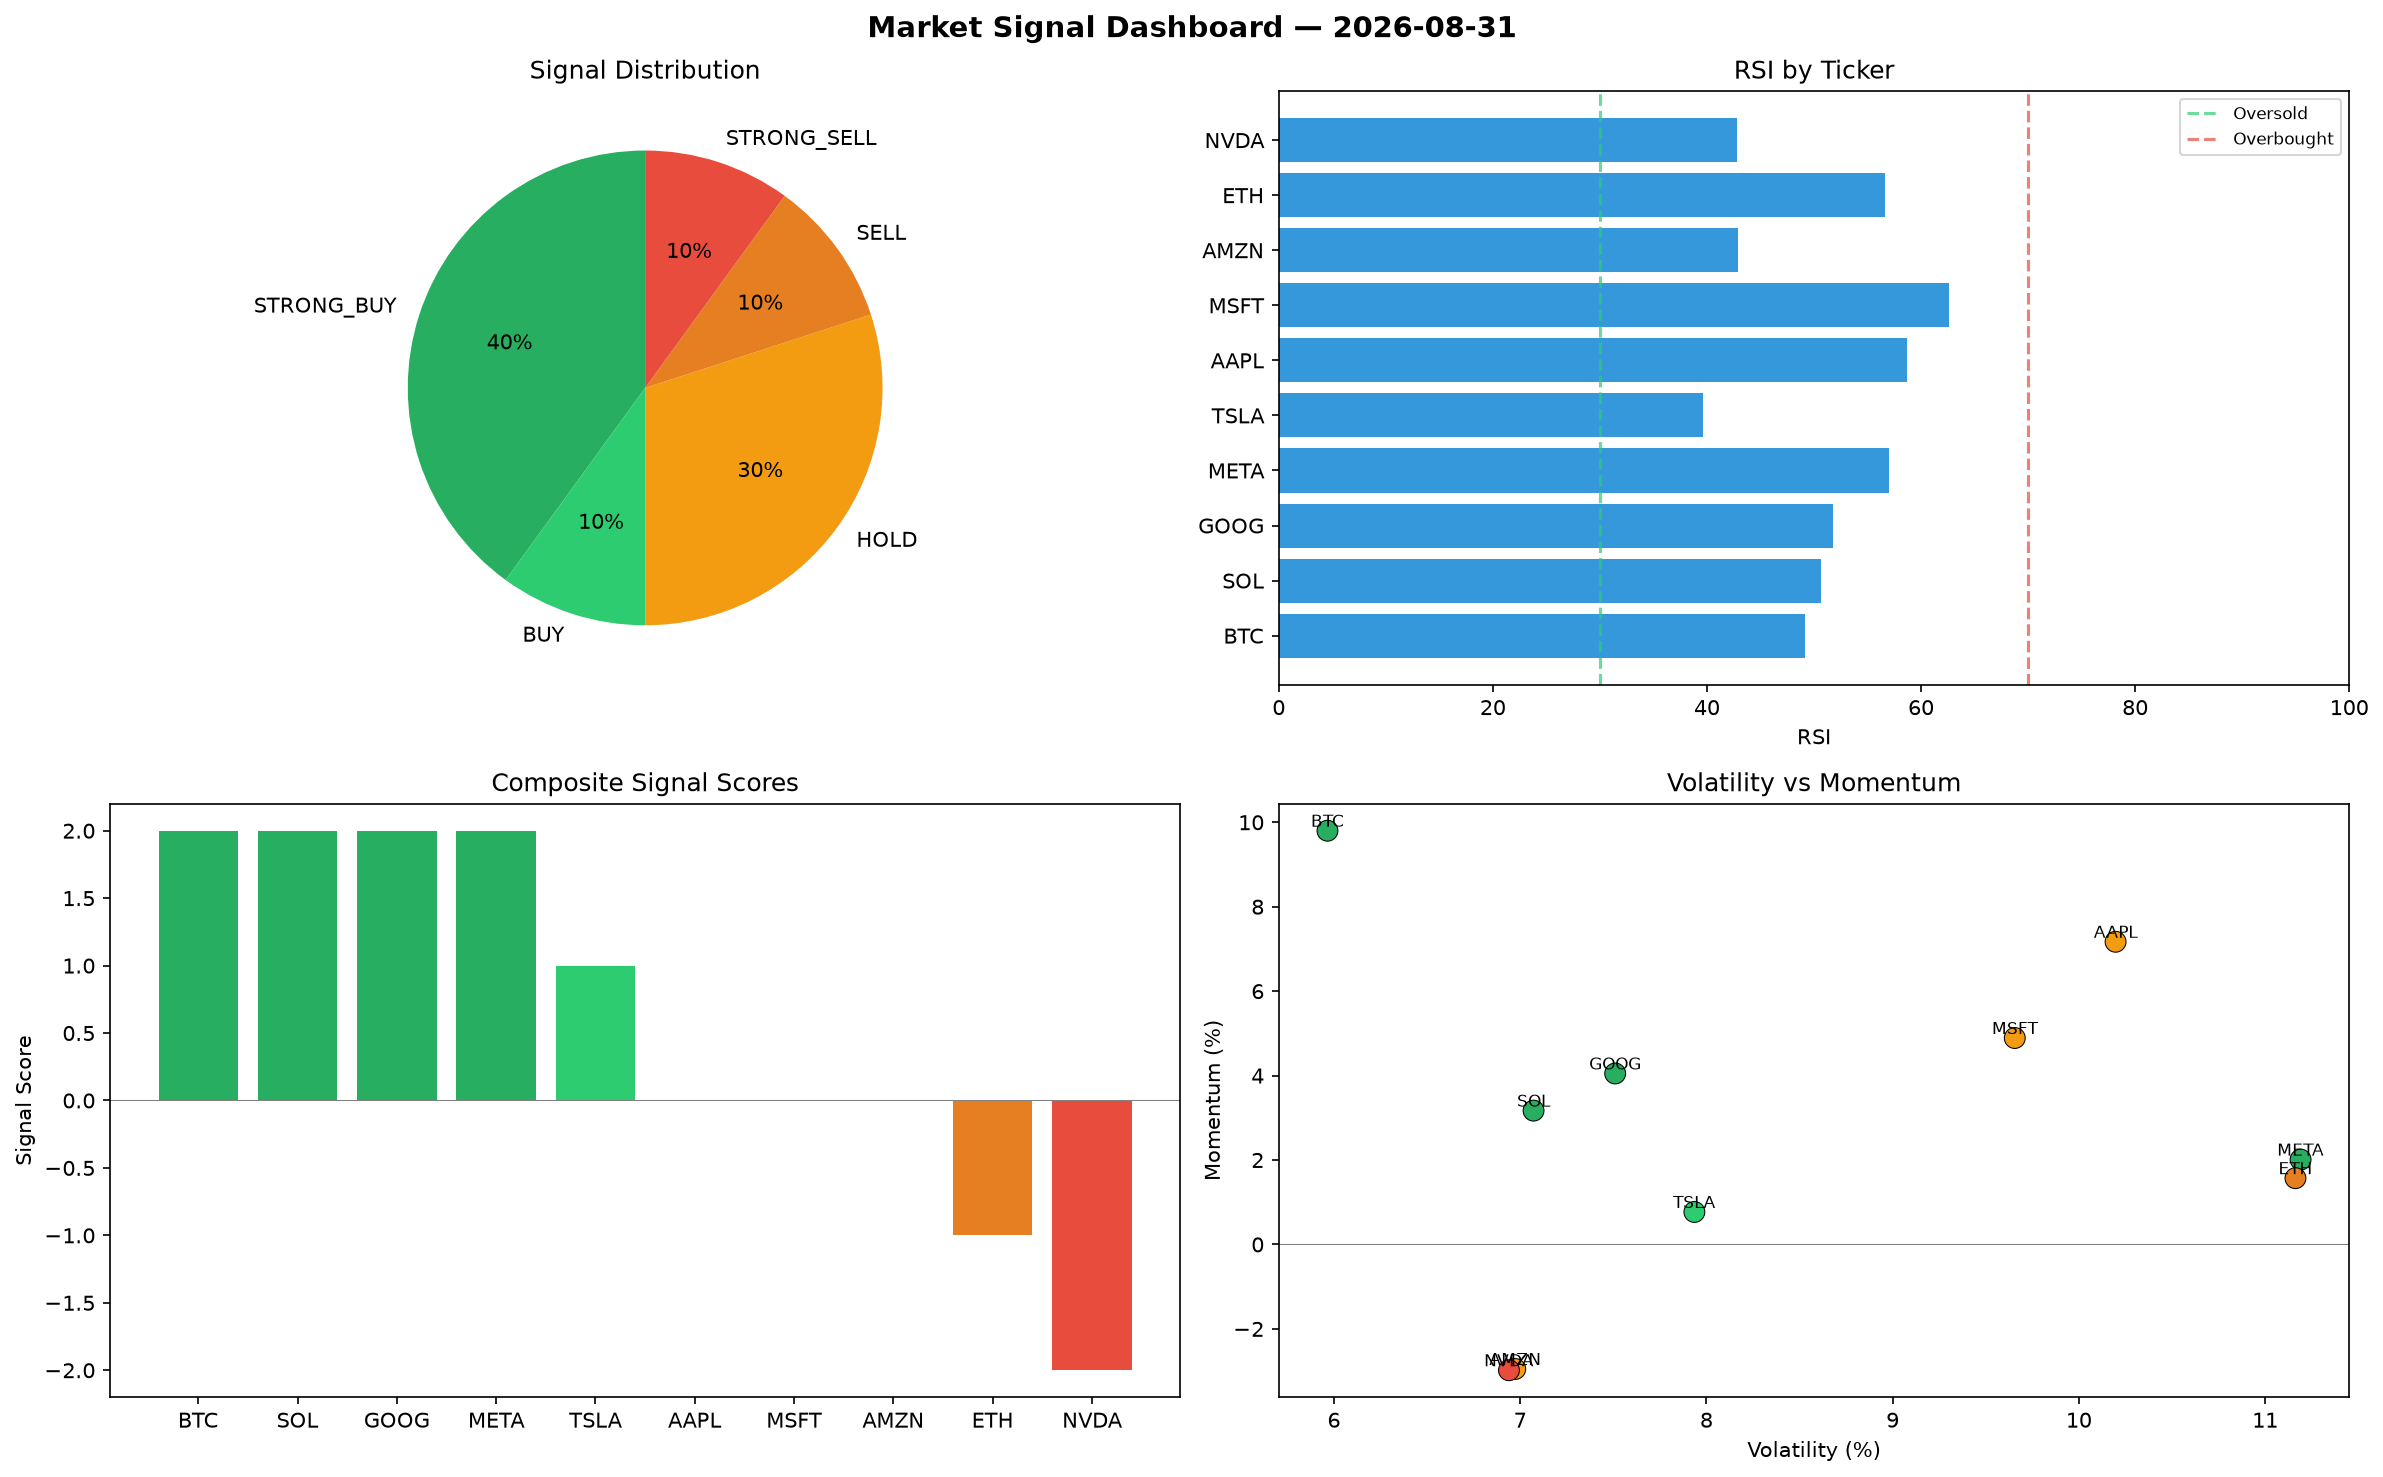
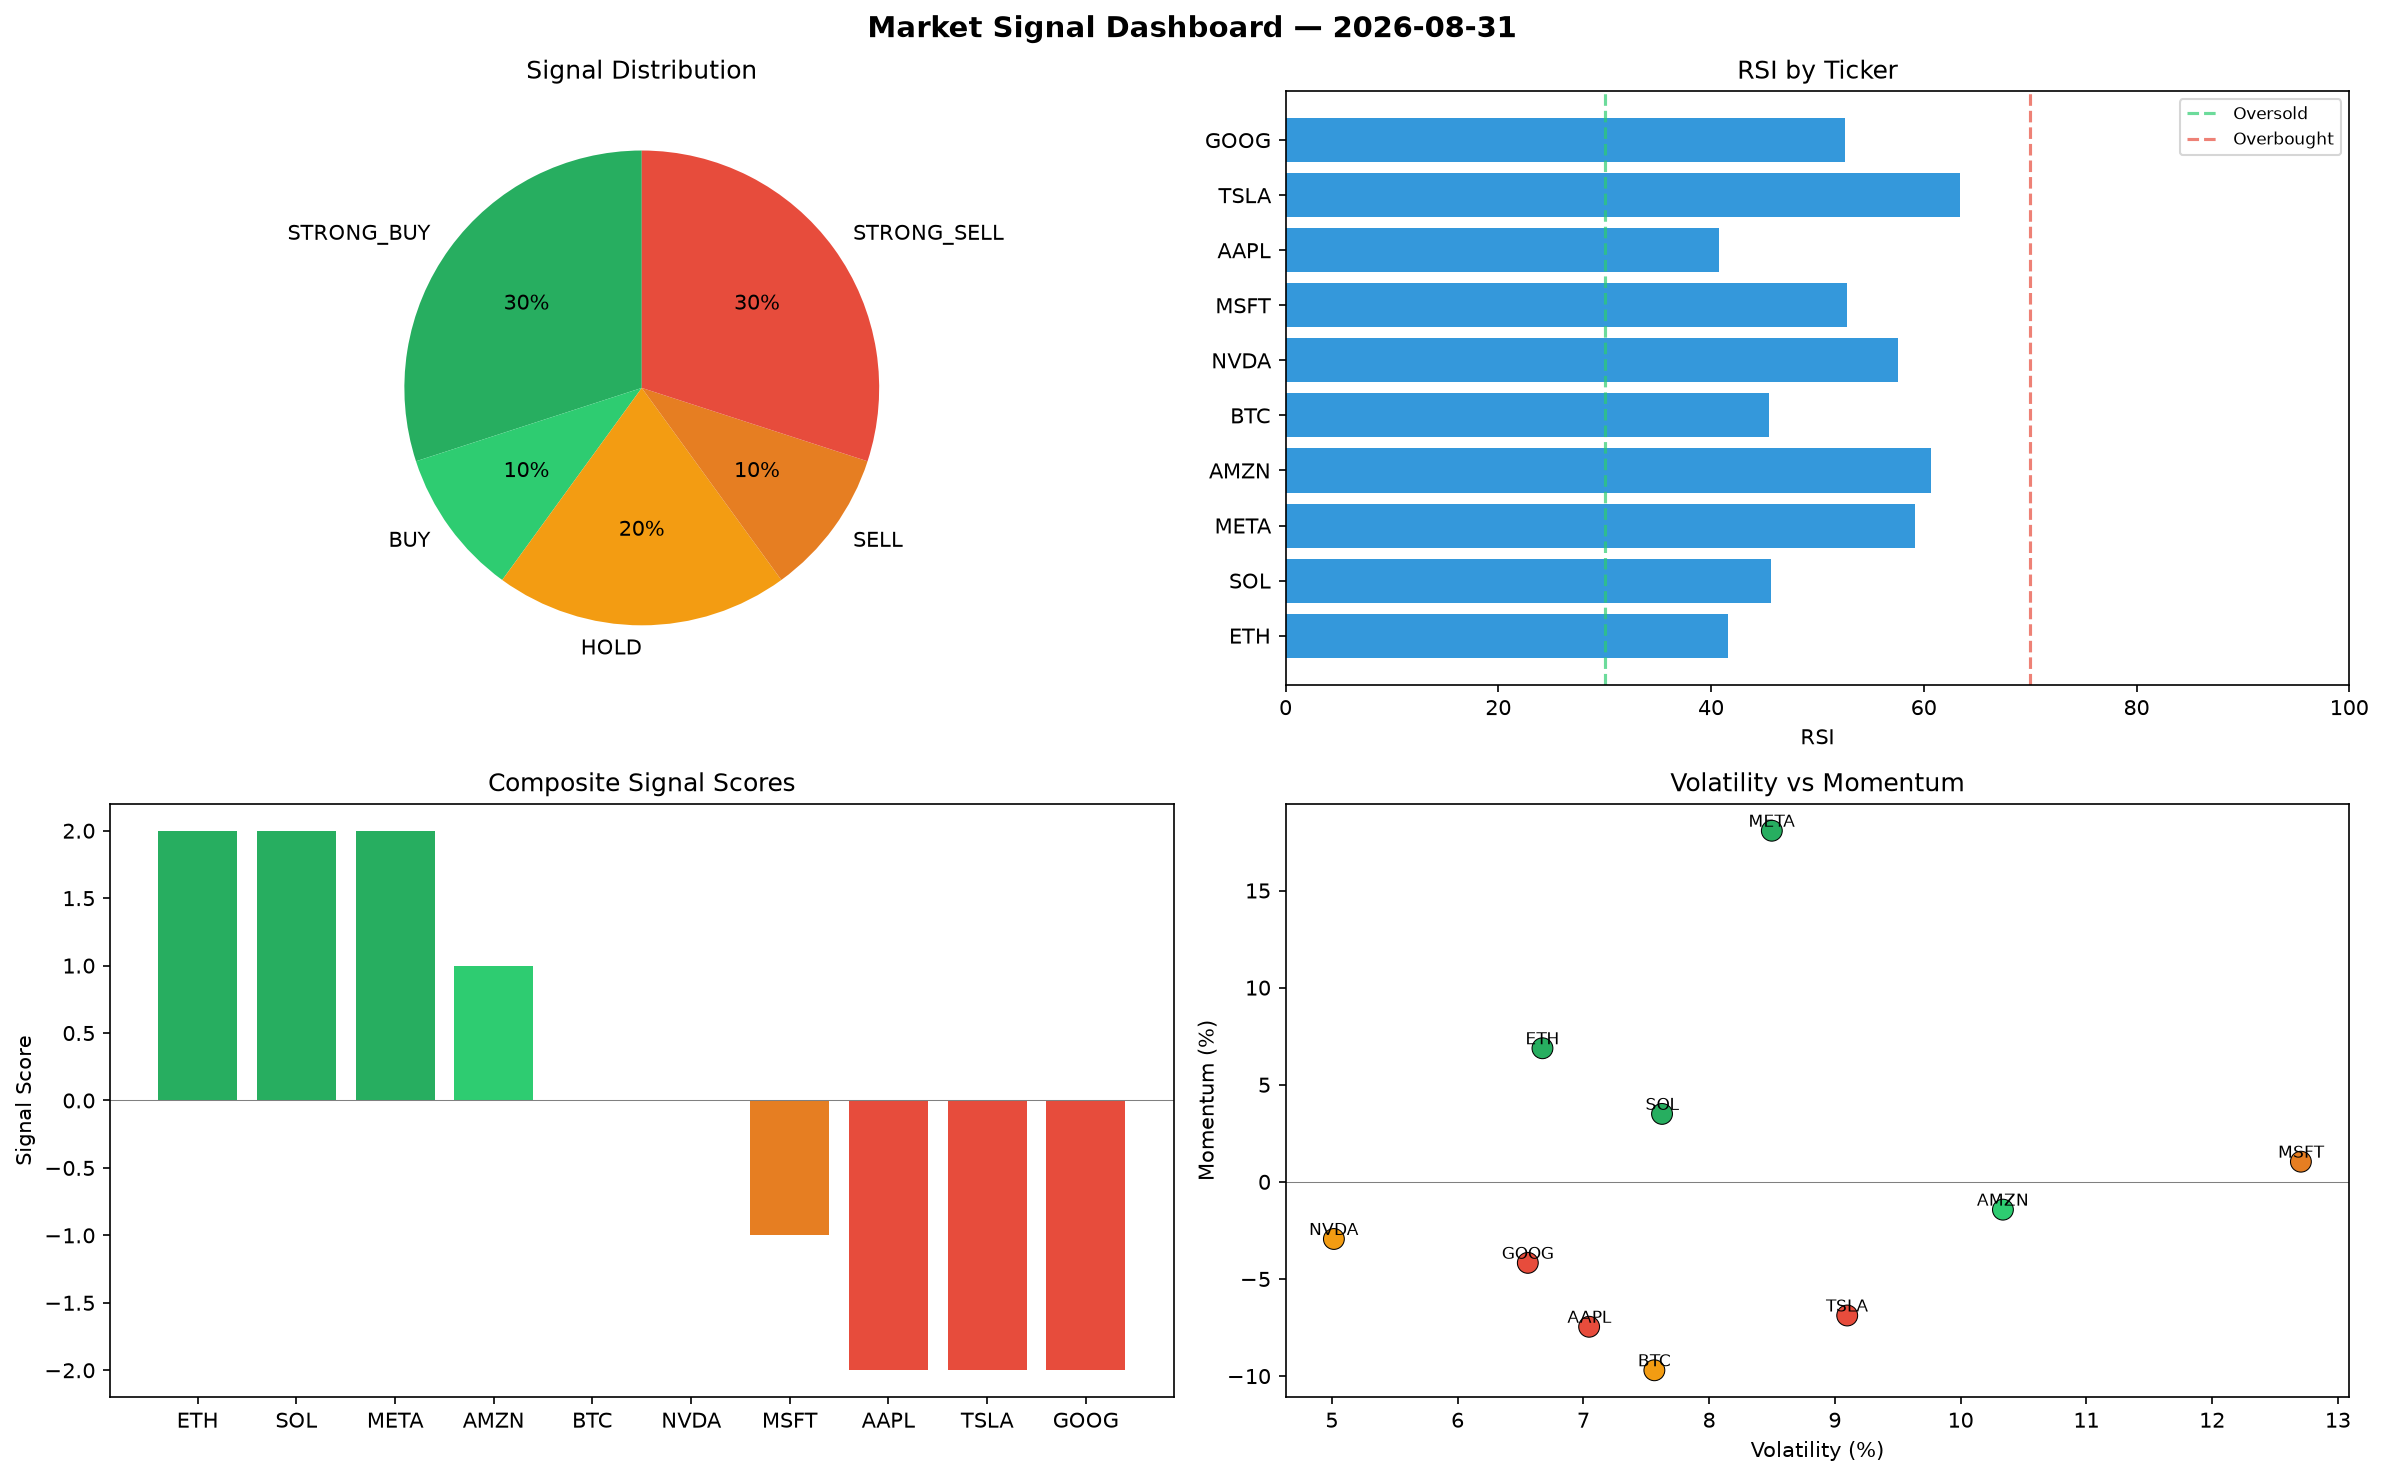
automated-bots: market signals 2026-08-31T23:56

diff --git a/logs/2026-08-31.md b/logs/2026-08-31.md
@@ -1,6 +1,6 @@
 # Market Signal Report — 2026-08-31
 
-**Run ID:** `b6b3cf4b00` | **Buy:** 5 | **Sell:** 2 | **Hold:** 3
+**Run ID:** `111ad9a858` | **Buy:** 4 | **Sell:** 4 | **Hold:** 2
 
 ![Dashboard](2026-08-31_dashboard.png)
 
@@ -8,28 +8,28 @@
 
 | Ticker | Price | Signal | Score | RSI | Momentum | Confidence |
 |--------|-------|--------|-------|-----|----------|------------|
-| BTC | $369.93 | **STRONG_BUY** | 2 | 49.2 | 0.098 | 0.5 |
-| SOL | $1718.68 | **STRONG_BUY** | 2 | 50.69 | 0.0317 | 0.5 |
-| GOOG | $2382.7 | **STRONG_BUY** | 2 | 51.76 | 0.0405 | 0.5 |
-| META | $3716.09 | **STRONG_BUY** | 2 | 57.02 | 0.0201 | 0.5 |
-| TSLA | $2510.69 | **BUY** | 1 | 39.67 | 0.0077 | 0.25 |
-| AAPL | $1198.1 | **HOLD** | 0 | 58.64 | 0.0717 | 0.0 |
-| MSFT | $3089.85 | **HOLD** | 0 | 62.64 | 0.0489 | 0.0 |
-| AMZN | $935.67 | **HOLD** | 0 | 42.88 | -0.0295 | 0.0 |
-| ETH | $2857.91 | **SELL** | -1 | 56.62 | 0.0157 | 0.25 |
-| NVDA | $752.63 | **STRONG_SELL** | -2 | 42.81 | -0.0298 | 0.5 |
+| ETH | $4419.64 | **STRONG_BUY** | 2 | 41.56 | 0.0688 | 0.5 |
+| SOL | $1166.49 | **STRONG_BUY** | 2 | 45.68 | 0.035 | 0.5 |
+| META | $120.03 | **STRONG_BUY** | 2 | 59.19 | 0.1808 | 0.5 |
+| AMZN | $4938.51 | **BUY** | 1 | 60.64 | -0.0143 | 0.25 |
+| BTC | $3159.92 | **HOLD** | 0 | 45.45 | -0.097 | 0.0 |
+| NVDA | $4555.5 | **HOLD** | 0 | 57.54 | -0.0294 | 0.0 |
+| MSFT | $3223.72 | **SELL** | -1 | 52.8 | 0.0104 | 0.25 |
+| AAPL | $2961.89 | **STRONG_SELL** | -2 | 40.77 | -0.0746 | 0.5 |
+| TSLA | $2149.93 | **STRONG_SELL** | -2 | 63.42 | -0.0688 | 0.5 |
+| GOOG | $2848.97 | **STRONG_SELL** | -2 | 52.57 | -0.0417 | 0.5 |
 
 ## Delta vs Yesterday
 
 | Ticker | Today | Yesterday | Price Change | Signal Changed |
 |--------|-------|-----------|-------------|----------------|
-| BTC | STRONG_BUY | HOLD | 📉 -92.87% | ⚠ YES |
-| SOL | STRONG_BUY | STRONG_BUY | 📉 -65.4% | — |
-| GOOG | STRONG_BUY | STRONG_BUY | 📉 -43.64% | — |
-| META | STRONG_BUY | STRONG_BUY | 📈 77.13% | — |
-| TSLA | BUY | HOLD | 📉 -5.61% | ⚠ YES |
-| AAPL | HOLD | STRONG_SELL | 📈 210.21% | ⚠ YES |
-| MSFT | HOLD | STRONG_SELL | 📈 42.9% | ⚠ YES |
-| AMZN | HOLD | STRONG_SELL | 📉 -63.68% | ⚠ YES |
-| ETH | SELL | HOLD | 📉 -15.32% | ⚠ YES |
-| NVDA | STRONG_SELL | STRONG_SELL | 📉 -68.37% | — |
+| ETH | STRONG_BUY | HOLD | 📈 30.96% | ⚠ YES |
+| SOL | STRONG_BUY | STRONG_BUY | 📉 -76.51% | — |
+| META | STRONG_BUY | STRONG_BUY | 📉 -94.28% | — |
+| AMZN | BUY | STRONG_SELL | 📈 91.71% | ⚠ YES |
+| BTC | HOLD | HOLD | 📉 -39.08% | — |
+| NVDA | HOLD | STRONG_SELL | 📈 91.47% | ⚠ YES |
+| MSFT | SELL | STRONG_SELL | 📈 49.09% | ⚠ YES |
+| AAPL | STRONG_SELL | STRONG_SELL | 📈 666.89% | — |
+| TSLA | STRONG_SELL | HOLD | 📉 -19.18% | ⚠ YES |
+| GOOG | STRONG_SELL | STRONG_BUY | 📉 -32.61% | ⚠ YES |
